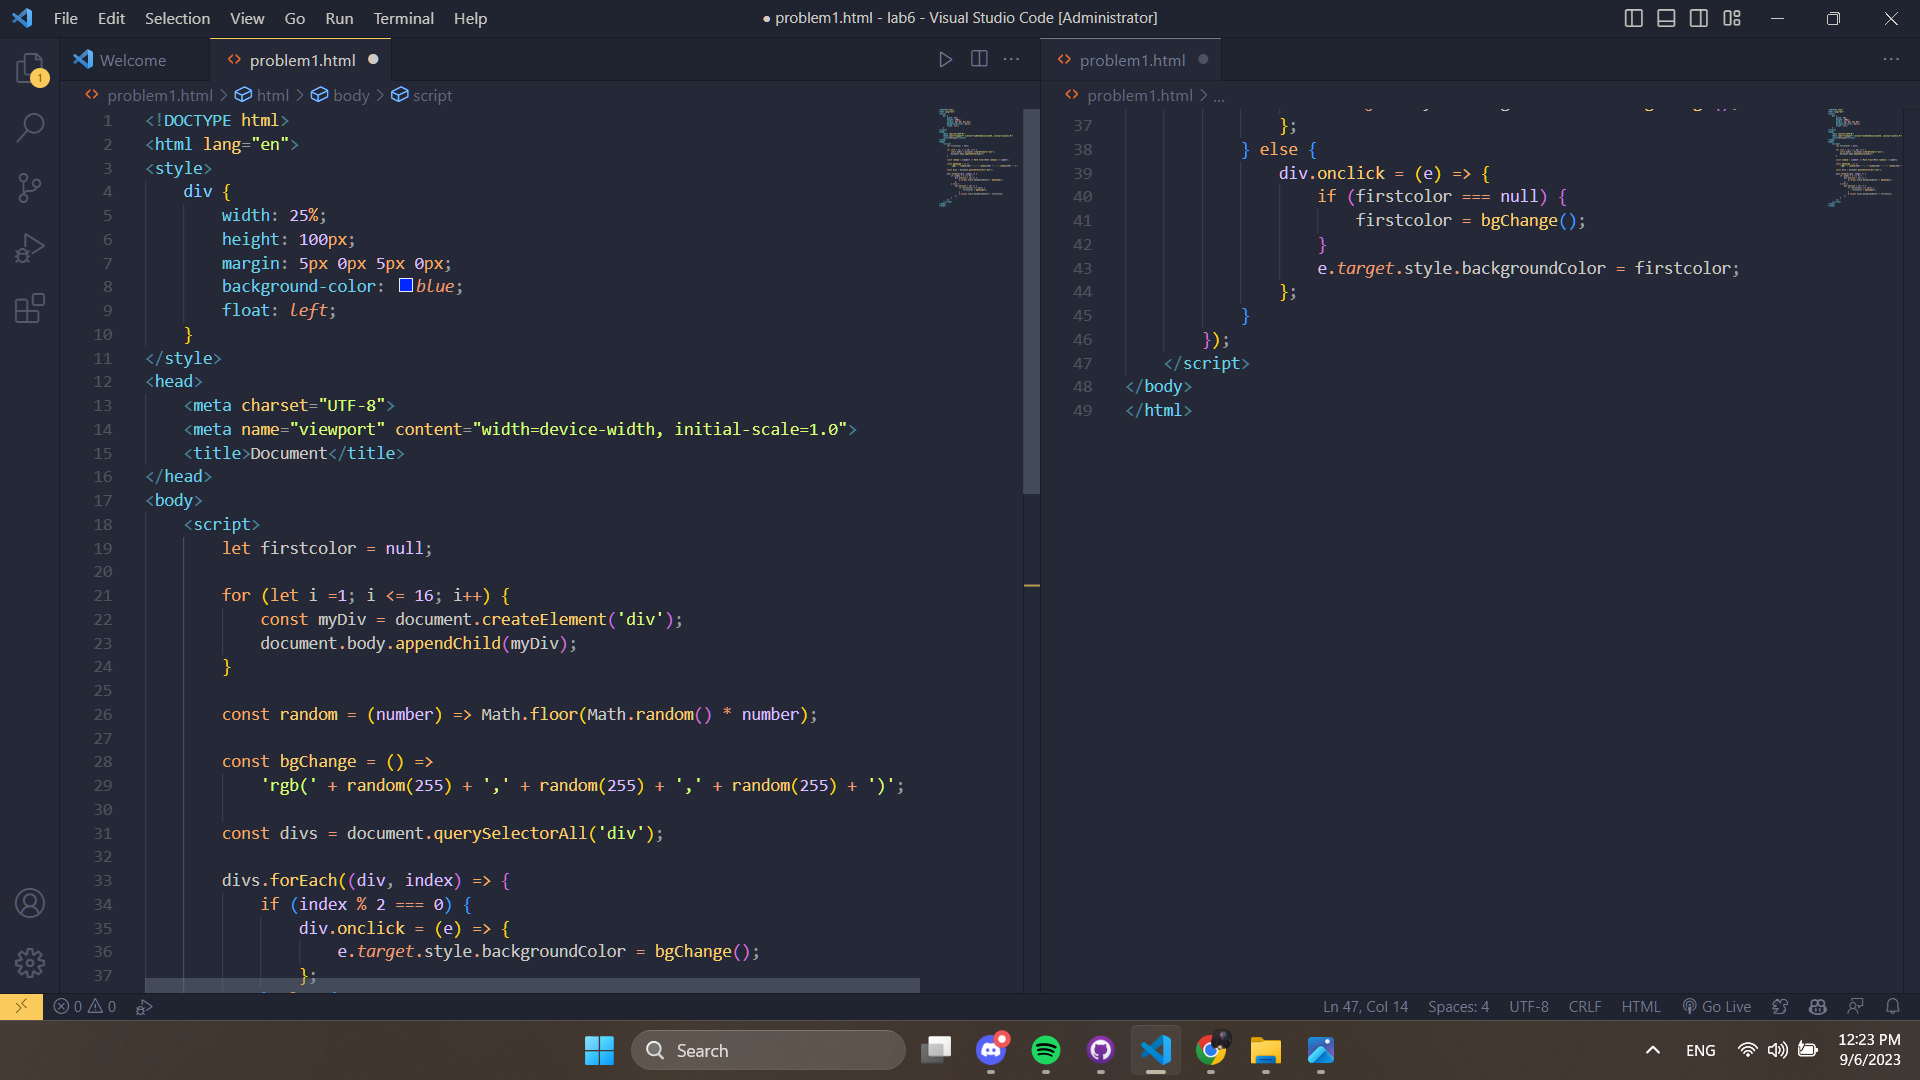
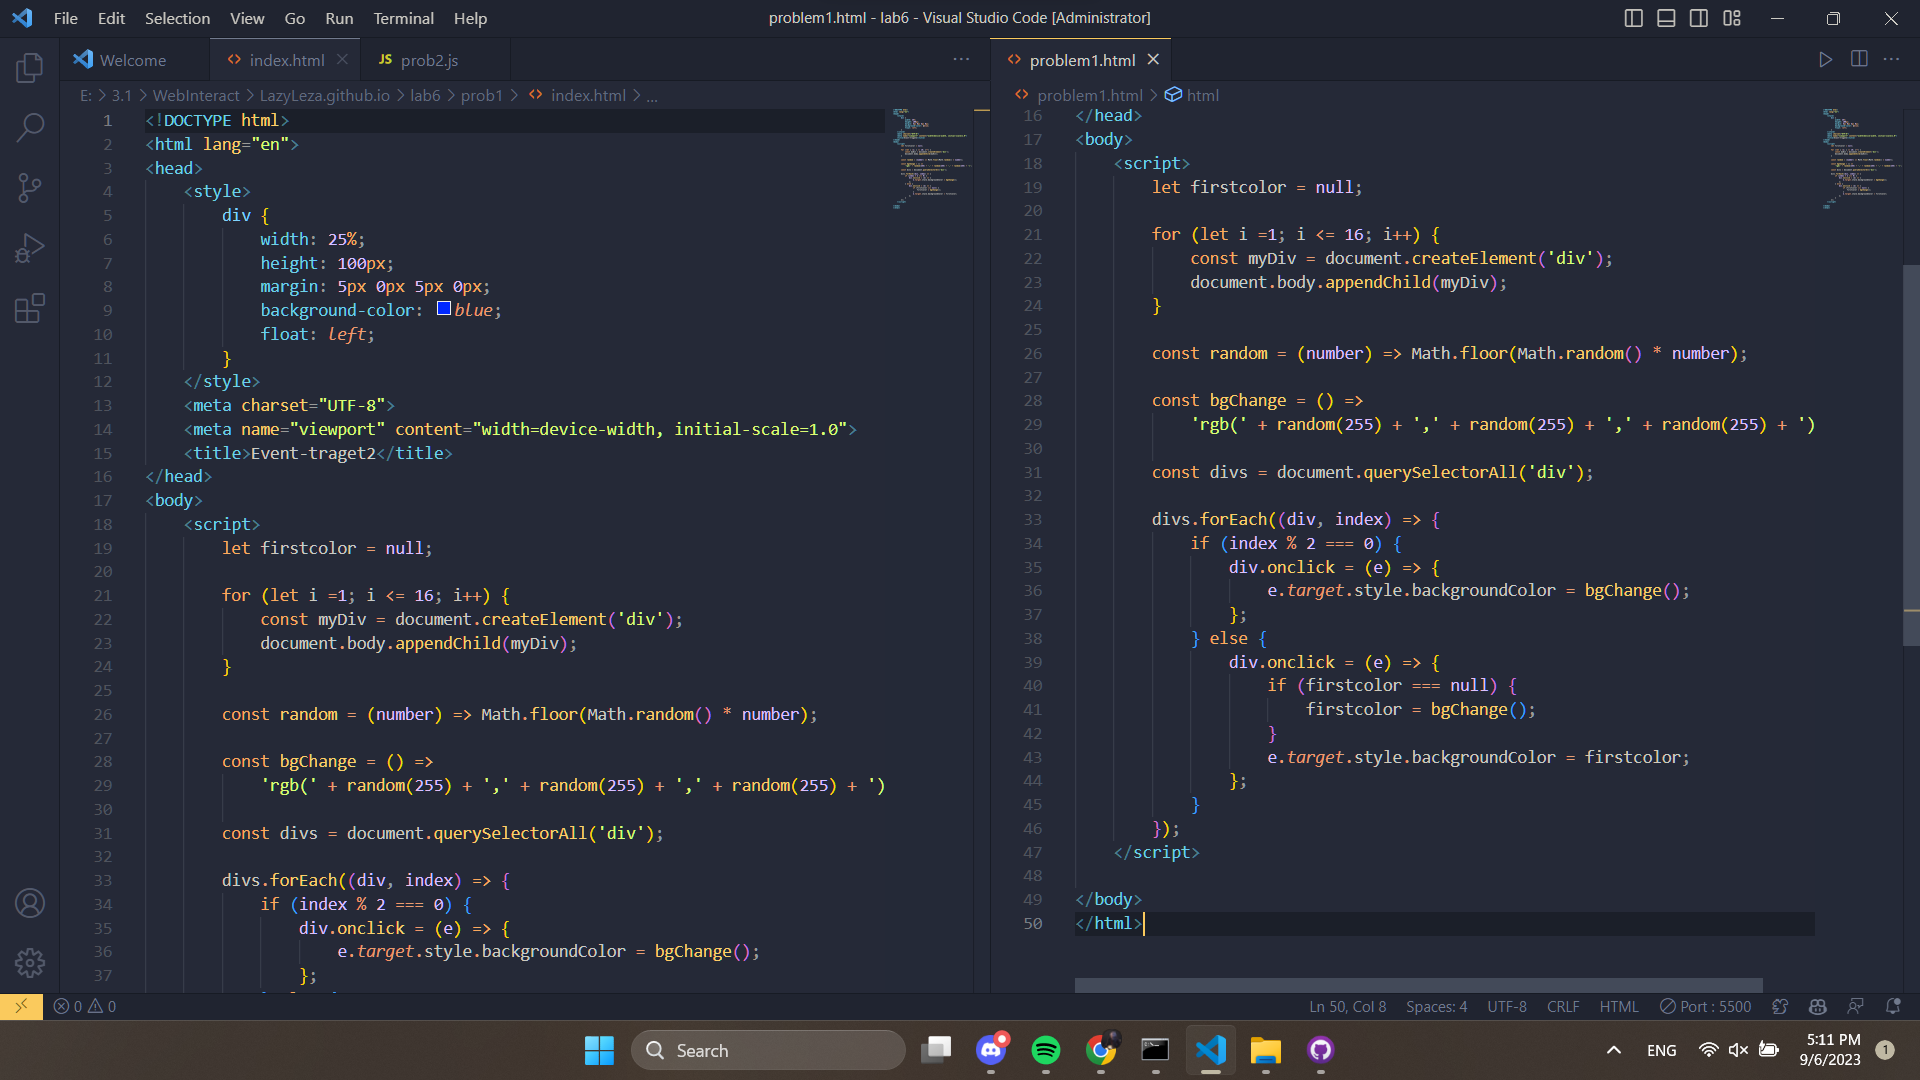
lab6
recapture code of prob1 and edit the title

diff --git a/lab6/problem1.html b/lab6/problem1.html
@@ -12,7 +12,7 @@
     </style>
     <meta charset="UTF-8">
     <meta name="viewport" content="width=device-width, initial-scale=1.0">
-    <title>Document</title>
+    <title>Event-traget2</title>
 </head>
 <body>
     <script>
